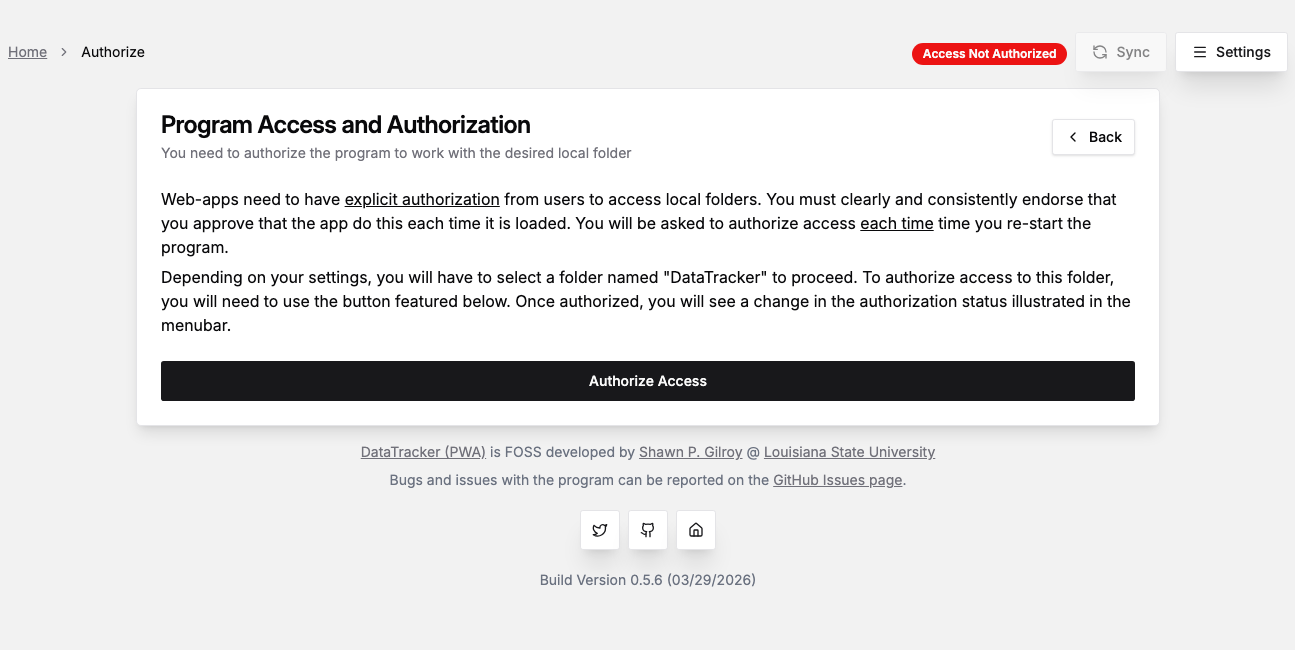
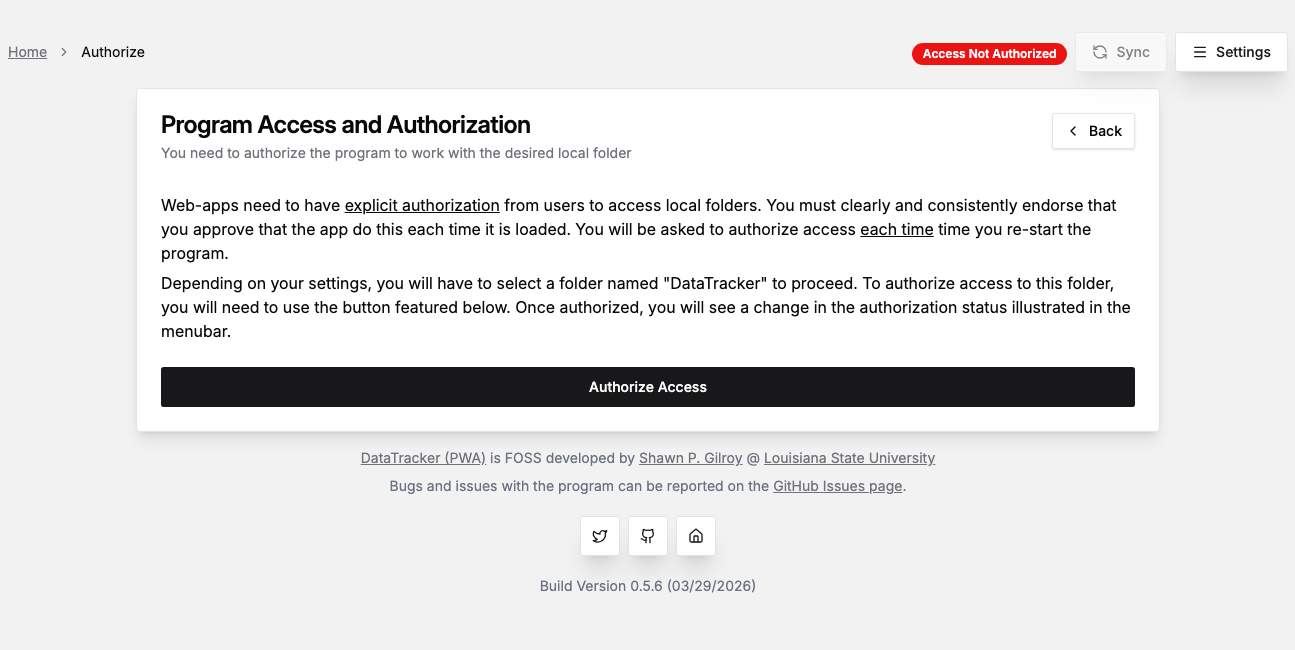
Push latest for 0.5.15

diff --git a/README.md b/README.md
@@ -1,6 +1,6 @@
 ![Static Badge Lines](<https://img.shields.io/badge/Coverage_(Lines)-95.44_Percent-green>) ![Static Badge Branches](<https://img.shields.io/badge/Coverage_(Branches)-91.26_Percent-green>) ![Static Badge Functions](<https://img.shields.io/badge/Coverage_(Functions)-95.08_Percent-green>)
 
-![Static Badge Version](https://img.shields.io/badge/Version-0.5.14-blue) ![Static Badge License](https://img.shields.io/badge/License-Apache_2.0-purple)
+![Static Badge Version](https://img.shields.io/badge/Version-0.5.15-blue) ![Static Badge License](https://img.shields.io/badge/License-Apache_2.0-purple)
 
 [![GitHub Bug Tracker](https://img.shields.io/badge/GitHub-Issues-181717?logo=github&logoColor=fff)](https://github.com/miyamot0/datatracker-pwa/issues) [![Slack Support Channel](https://img.shields.io/badge/Slack-4A154B?logo=slack&logoColor=fff)](https://datatrackerworkspace.slack.com/)
 
@@ -36,6 +36,11 @@ Features include the following:
 - [x] Manual export of data in multiple formats (i.e., JSON, CSV)
 
 ### Changelog
+
+#### 0.5.15 (2026-06-27):
+
+- Round out visual package (i.e., annotations)
+- Improvements to error reporting
 
 #### 0.5.14 (2026-06-26):
 
@@ -211,4 +216,4 @@ Apache 2.0 - Shawn Gilroy, Louisiana State University
 
 ## Current Version
 
-0.5.14
+0.5.15
